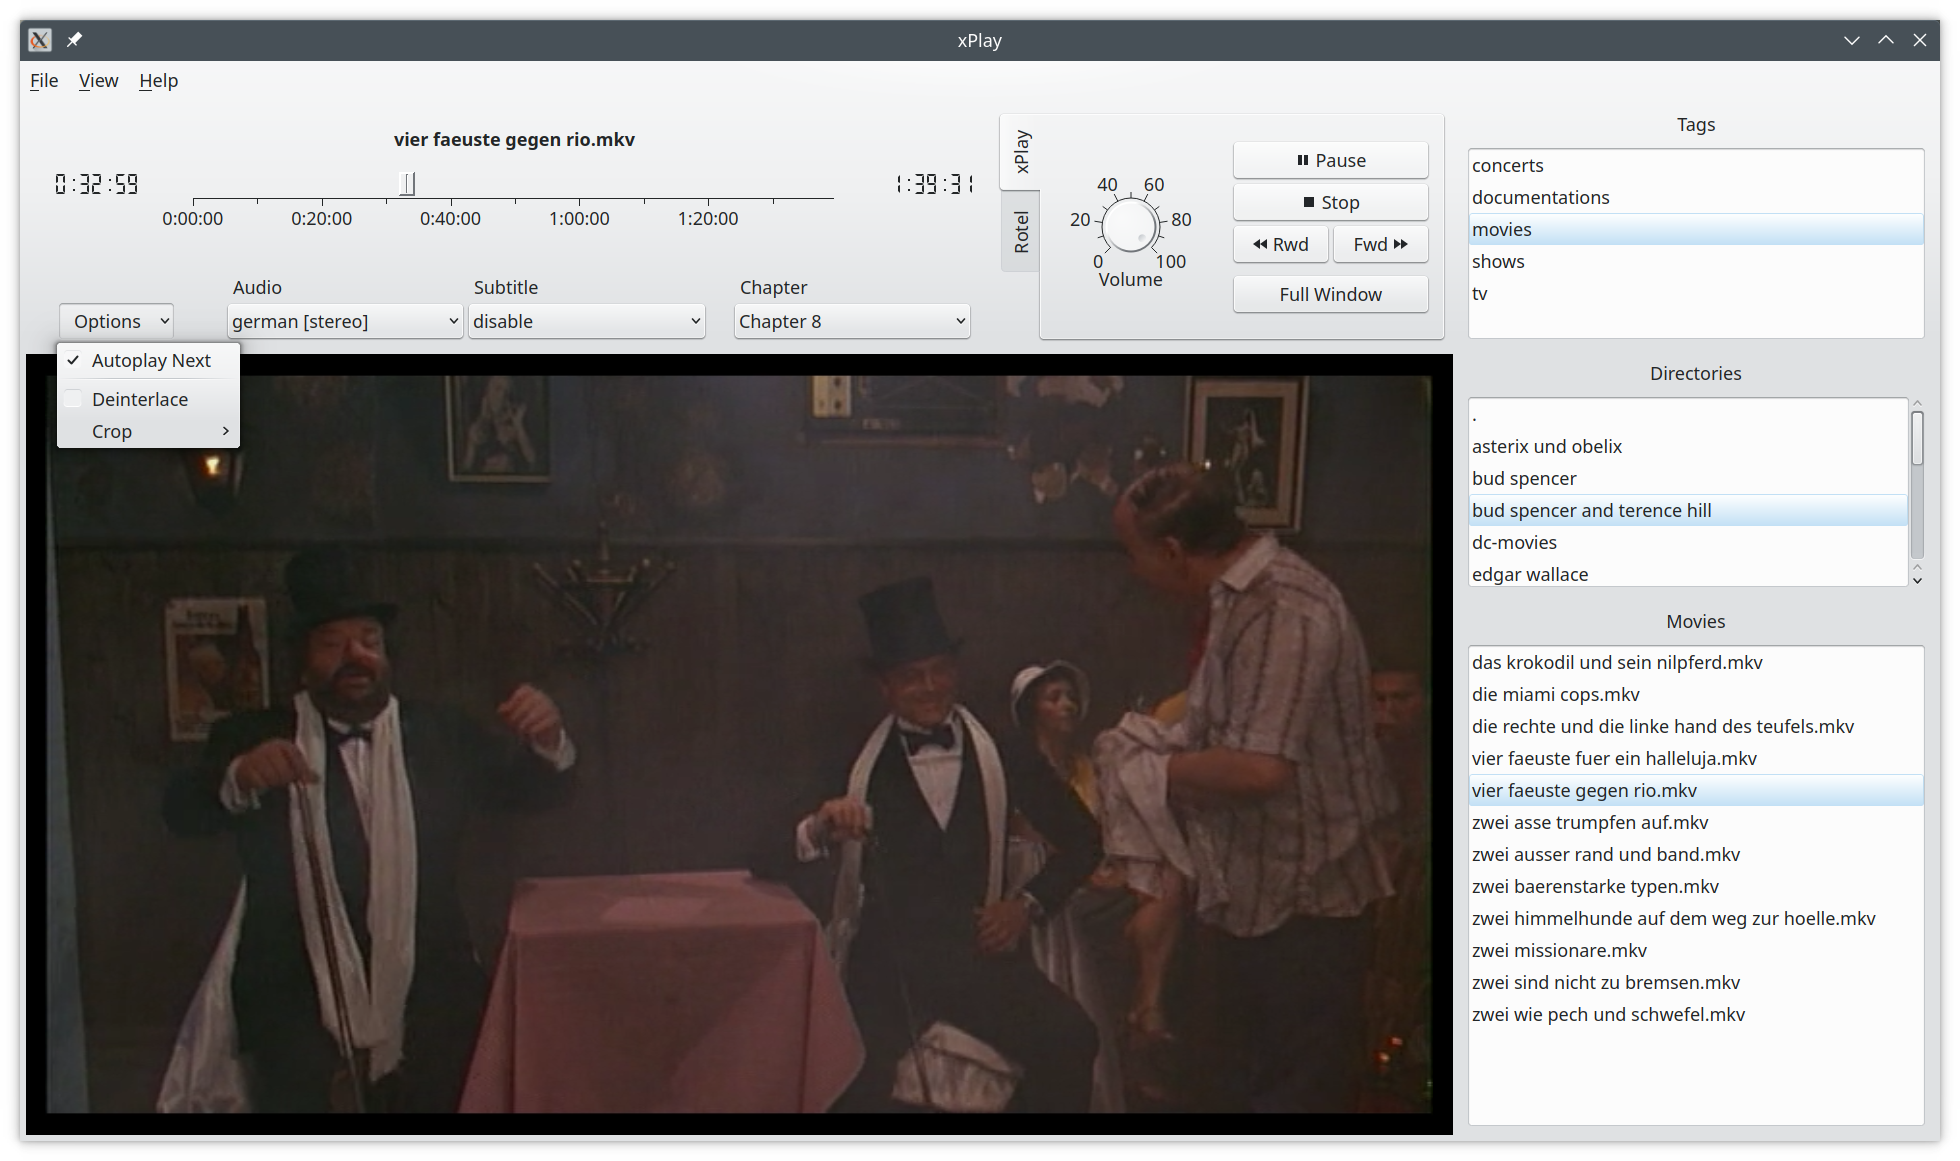
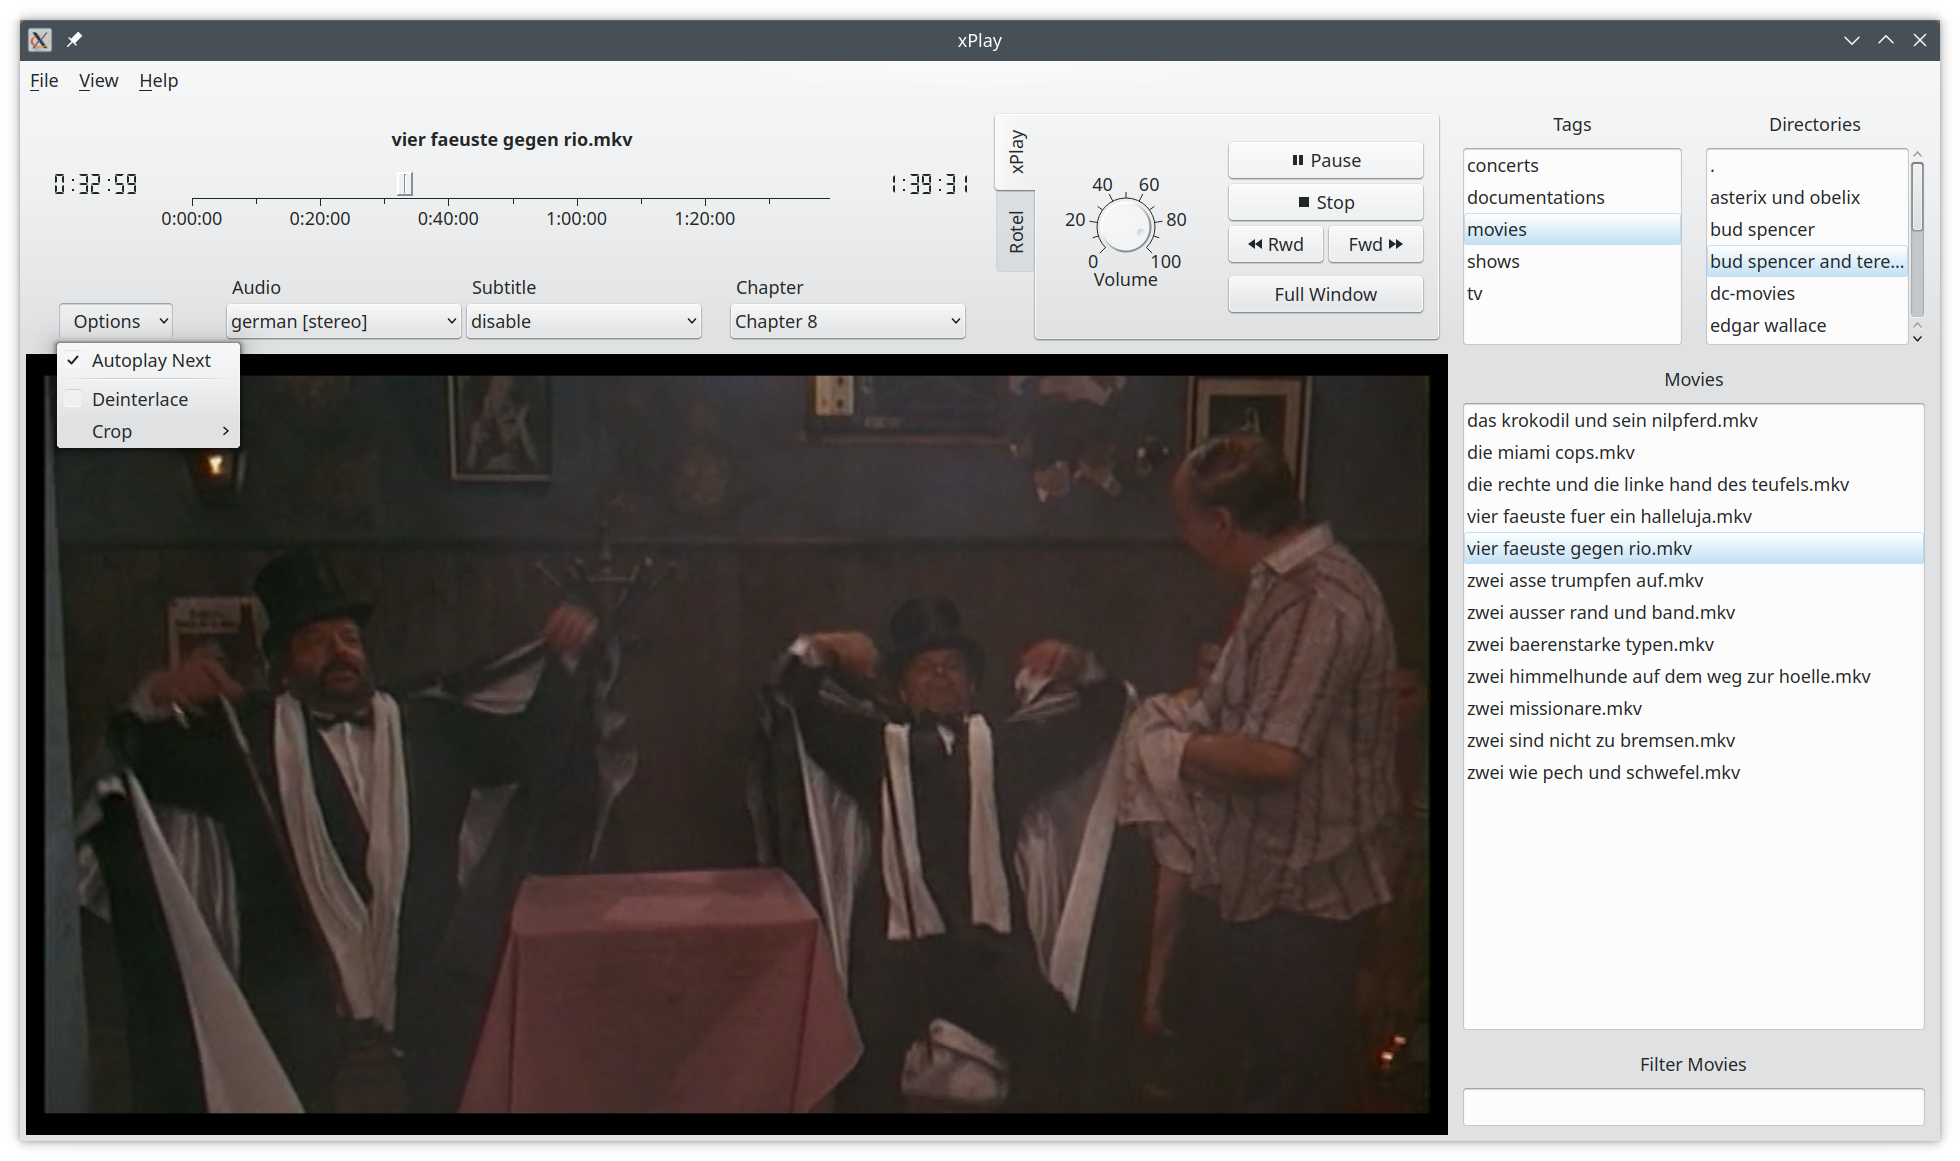
Update CHANGELOG.md and README.md. Update screenshots and version number.

diff --git a/xPlay.cpp b/xPlay.cpp
@@ -151,7 +151,7 @@ int main(int argc, char* argv[])
 {
     QApplication playApp(argc, argv);
     QApplication::setApplicationName("xPlay");
-    QApplication::setApplicationVersion("0.11.1");
+    QApplication::setApplicationVersion("0.12.0");
     QCommandLineParser playAppParser;
     if (handleCommandLine(playApp, playAppParser)) {
         // Exit if the command line was handled.

diff --git a/README.md b/README.md
@@ -93,6 +93,7 @@ xPlay has a music view, a movie view, a streaming view and a mobile sync view.
 ![Screenshot Music View (artistinfo popup)](screenshots/xplay_screenshot_music_view_07.png)
 ![Screenshot Music View (artistinfo)](screenshots/xplay_screenshot_music_view_08.png)
 ![Screenshot Music View (visualization)](screenshots/xplay_screenshot_music_view_09.png)
+![Screenshot Music View (rename)](screenshots/xplay_screenshot_music_view_10.png)
 
 The main screen of the music view has four vertical list for the artists, album, tracks and the queue. The
 album list is updated if you click (or select) on an artist and the track list is updated if you click (or select)
@@ -131,6 +132,11 @@ Tags can be added and removed by the tag popup menu which can be accessed throug
 entry in the track list or the queue. The tags are stored in the database. The tag dialog can be accessed by pressing 
 the *Tags* button at the bottom of the queue list. The tag dialog allows to load or extend the queue with tracks that
 have a specific tag.
+
+The artist, album and track name can be modified. If the queue is empty and no music file is playing then a
+shifh-right click on an artist, album or track entry will open a popup menu that allows us to rename the
+entry. The corresponding directory (for artist and album) or the file name (for track) will be renamed. The tags of
+all affected music files will be updated as well as any matching database entries.
 
 The Rotel widget allows to control a Rotel A12 or A14 amp via a network connection. The volume can be adjusted
 (maximum of 60) and the input can be selected. The values for bass and treble can be adjusted (from -10 to +10)
@@ -224,6 +230,13 @@ can be used to end the full window mode. The full window mode will automatically
 end. If the *Autoplay Next* in the *Options* menu is enabled then the next movie in the movie list will be played as 
 soon as the current movie has ended. The player will stay in fill window mode until the last movie of the list is 
 finished.
+
+##### Filters
+
+The movie filter is similar to the filters for the artist, album or track filter in the music view.
+The filter is applied on the movie list widget itself. A list widget item is shown if it matches the given 
+filter string. All entries will appear if the movie filter is disabled in the movie view sub menu entry.
+
 
 ### Streaming View
 
@@ -319,6 +332,9 @@ With Qwt the UI has an improved volume knob and track slider.
     * The GStreamer backend crashed on Ubuntu 20.04 for some movies. Replacing the library
       */usr/lib/x86_64-linux-gnu/gstreamer-1.0/libgsta52dec.so* from *streamer1.0-plugins-ugly* with the
       corresponding library for Ubuntu 20.10 may solve the issue.
+* VLC audio issues
+    * Using VLC on Ubuntu 22.04 can lead to audio stutter after seeking within the movie itself.
+    * A workaround switching audio channels back and forth has been implemented.
 
 ## Notes
 

diff --git a/CHANGELOG.md b/CHANGELOG.md
@@ -1,7 +1,13 @@
 # Changelog
 
 
-## unreleased
+## 0.12.0 - 2022-05-15
+
+- New music library implementation.
+- Support renaming of music files, the corresponding database entries and update of tags.
+- Fix minor UI issue if last single track is dequeued.
+- Add movie filter and other movie view UI changes.
+- Implement workaround for VLC audio issue after seeking within a movie.
 
 
 ## 0.11.1 - 2022-02-22
